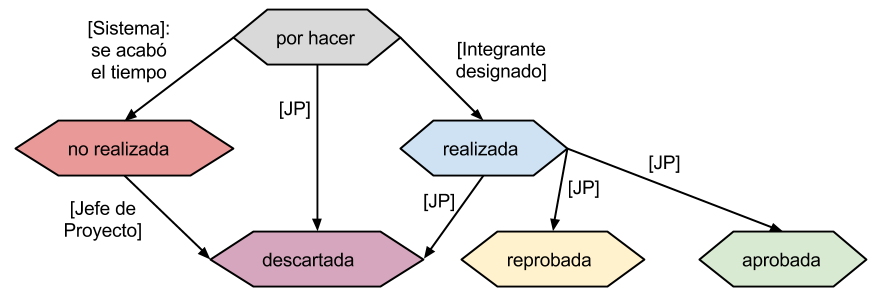
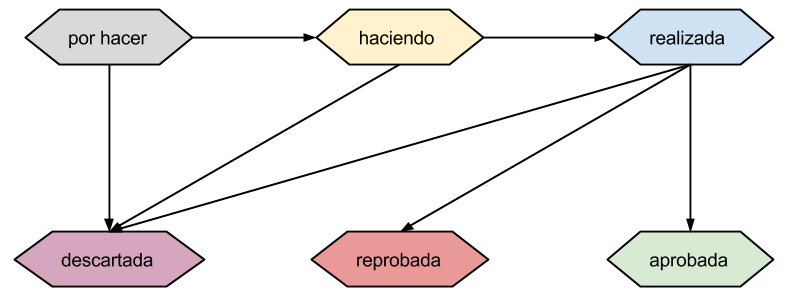
doing

diff --git a/mainReq/templates/reqApp/tools/tasks/task.html b/mainReq/templates/reqApp/tools/tasks/task.html
@@ -39,10 +39,10 @@
             {% if canEditTasks %}
                 <div class="row">
                     {% if task|showTaskButton:'reprobate' %}
-                        <div class="col-sm-1">
+                        <div class="col-sm-2">
                             <button class="btn btn-primary btn-xs" onclick="taskButton('Esta acción es irreversible ¿Esta tarea fue realizada de manera satisfactoria?\n\nAprobar: {{ task }}', {{ task.id }}, 'approved', '{{csrf_token}}')"><span class="glyphicon glyphicon-thumbs-up"></span> Aprobar</button>
                         </div>
-                        <div class="col-sm-2">
+                        <div class="col-sm-3">
 	                        <button class="btn btn-primary btn-xs" onclick="taskButton('Esta acción es irreversible ¿Esta tarea no fue realizada de manera satisfactoria?\n\nReprobar: {{ task }}', {{ task.id }}, 'reprobate', '{{csrf_token}}')"><span class="glyphicon glyphicon-thumbs-down"></span> Reprobar</button>
 	                    </div>
 	                {% endif %}
@@ -55,12 +55,12 @@
 	        {% else %}
 	            <div class="row">
 	                {% if task|showTaskButton:'doing' %}
-	                    <div class="col-sm-1">
-    	                    <button class="btn btn-primary btn-xs" onclick="taskButton('', {{ task.id }}, 'doing', '{{csrf_token}}')"><span class="glyphicon glyphicon-ok"></span> Haciendo</button>
+	                    <div class="col-sm-2">
+    	                    <button class="btn btn-primary btn-xs" onclick="taskButton('', {{ task.id }}, 'doing', '{{csrf_token}}')"><span class="glyphicon glyphicon-pushpin"></span> Haciendo</button>
     	                </div>
 	                {% endif %}
 	                {% if task|showTaskButton:'done' %}
-	                    <div class="col-sm-1">
+	                    <div class="col-sm-2">
     	                    <button class="btn btn-primary btn-xs" onclick="taskButton('Esta acción es irreversible ¿Esta tarea fue realizada y está lista para ser revisada?\n\nTarea Realizada: {{ task }}', {{ task.id }}, 'done', '{{csrf_token}}')"><span class="glyphicon glyphicon-ok"></span> Realizada</button>
     	                </div>
 	                {% endif %}

diff --git a/mainReq/templates/reqApp/help.html b/mainReq/templates/reqApp/help.html
@@ -366,13 +366,14 @@
         <li>En esta sección un integrante del equipo de desarrollo puede ver y reportar el estado de las Tareas que se le han encargado. Si el usuario tiene permisos de edición (como un "Jefe de Proyecto"), podrá asignar y revisar Tareas.</li>
         <li>La Figura 33 muestra los posibles estados de una Tarea.</li>
         <ul>
-            <li><b>Por Hacer:</b> La Tarea ha sido creada y aún queda tiempo para realizarla.</li>
-            <li><b>Realizada:</b> El integrante responsable reporta la realización de la Tarea dentro del plazo.</li>
-            <li><b>No Realizada:</b> Se acaba el plazo y el integrante no ha reportado su realización.</li>
-            <li><b>Aprobada:</b> El jefe de proyecto considera válida la Tarea reportada por el integrante.</li>
-            <li><b>Reprobada:</b> El jefe de proyecto considera inválida la Tarea reportada por el integrante.</li>
-            <li><b>Descartada:</b> El jefe de proyecto decide que la especificación de la Tarea es inconsistente o ambigua.</li>
+            <li><b>Por Hacer:</b> La Tarea ha sido creada.</li>
+            <li><b>Haciendo:</b> El integrante se encuentra haciendo la tarea.</li>
+            <li><b>Realizada:</b> El integrante responsable reporta la realización de la Tarea para que sea evaluada.</li>
+            <li><b>Aprobada:</b> El evaluador considera válida la Tarea reportada por el integrante.</li>
+            <li><b>Reprobada:</b> El evaluador considera inválida/insuficuente la Tarea reportada por el integrante.</li>
+            <li><b>Descartada:</b> El evaluador decide que la especificación de la Tarea es inconsistente o ambigua.</li>
         </ul>
+        <li>Si vence el plazo de entrega, la tarea se marca como <span style="color:Red;">atrasada</span>.</li>
     </ul>
     
     <h2><a name="ST">Estadísticas del Proyecto</a></h2>

diff --git a/mainReq/reqApp/static/css/reqApp.css b/mainReq/reqApp/static/css/reqApp.css
@@ -25,6 +25,8 @@ li .navbar-li-selected{
 
 .alert{
     padding:2px;
+    margin-bottom:2px;
+    margin-top:2px;
 }
 .alert-dismissible{
     padding-right:34px;
@@ -105,10 +107,10 @@ span.element-pointer{
 .ambiguous{color:Purple;}
 .to_do{color:Black;}
 .done{color:Blue;}
-.doing{color:LightBlue;}
+.doing{color:Orange;}
 .not_done{color:Red;}
 .approved{color:Green;}
-.reprobate{color:Orange;}
+.reprobate{color:Red;}
 .discarded{color:Purple;}
 
 /* registry element colors */
@@ -142,10 +144,10 @@ div .reqLabelDiv{
 .label-ambiguous{background-color:rgba(128,0,128,0.7);}/* Purple */
 .label-to_do{background-color:rgba(0,0,0,0.7);}/* Black */
 .label-done{background-color:rgba(0,0,255,0.7);}/* Blue */
-.label-doing{background-color:LightBlue;}/* Blue */
+.label-doing{background-color:rgba(255,165,0,0.7);}/* Orange */
 .label-not_done{background-color:rgba(255,0,0,0.7);}/* Red */
 .label-approved{background-color:rgba(0,128,0,0.7);}/* Green */
-.label-reprobate{background-color:rgba(255,165,0,0.7);}/* Orange */
+.label-reprobate{background-color:rgba(255,0,0,0.7);}/* Red */
 .label-discarded{background-color:rgba(128,0,128,0.7);}/* Purple */
 .label-registry-actual{background-color:rgba(0,128,128,0.7);}/* Teal */
 .label-registry-new{background-color:rgba(128,128,0,0.7);}/* Olive */

diff --git a/mainReq/templates/reqApp/tools/tasks/task_form.html b/mainReq/templates/reqApp/tools/tasks/task_form.html
@@ -11,7 +11,7 @@
         <label class="col-sm-2 control-label">*Nombre</label>
         <div class="col-sm-10">{{ form.name|attr:"class:form-control input-sm" }}</div>
     </div>
-    <div class="form-group form-group-sm">
+    <div class="form-group">
         <label class="col-sm-2 control-label">*Descripción</label>
         <div class="col-sm-10">{{ form.description|attr:"class:form-control input-sm,rows:2" }}</div>
     </div>

diff --git a/mainReq/reqApp/models.py b/mainReq/reqApp/models.py
@@ -538,4 +538,6 @@ class Task(models.Model):
         return False
     """
     def isLate(self):
+        if self.isToDo() or self.isDoing():
+            return timezone.now() > self.deadlineDate
         return self.doneDate > self.deadlineDate
